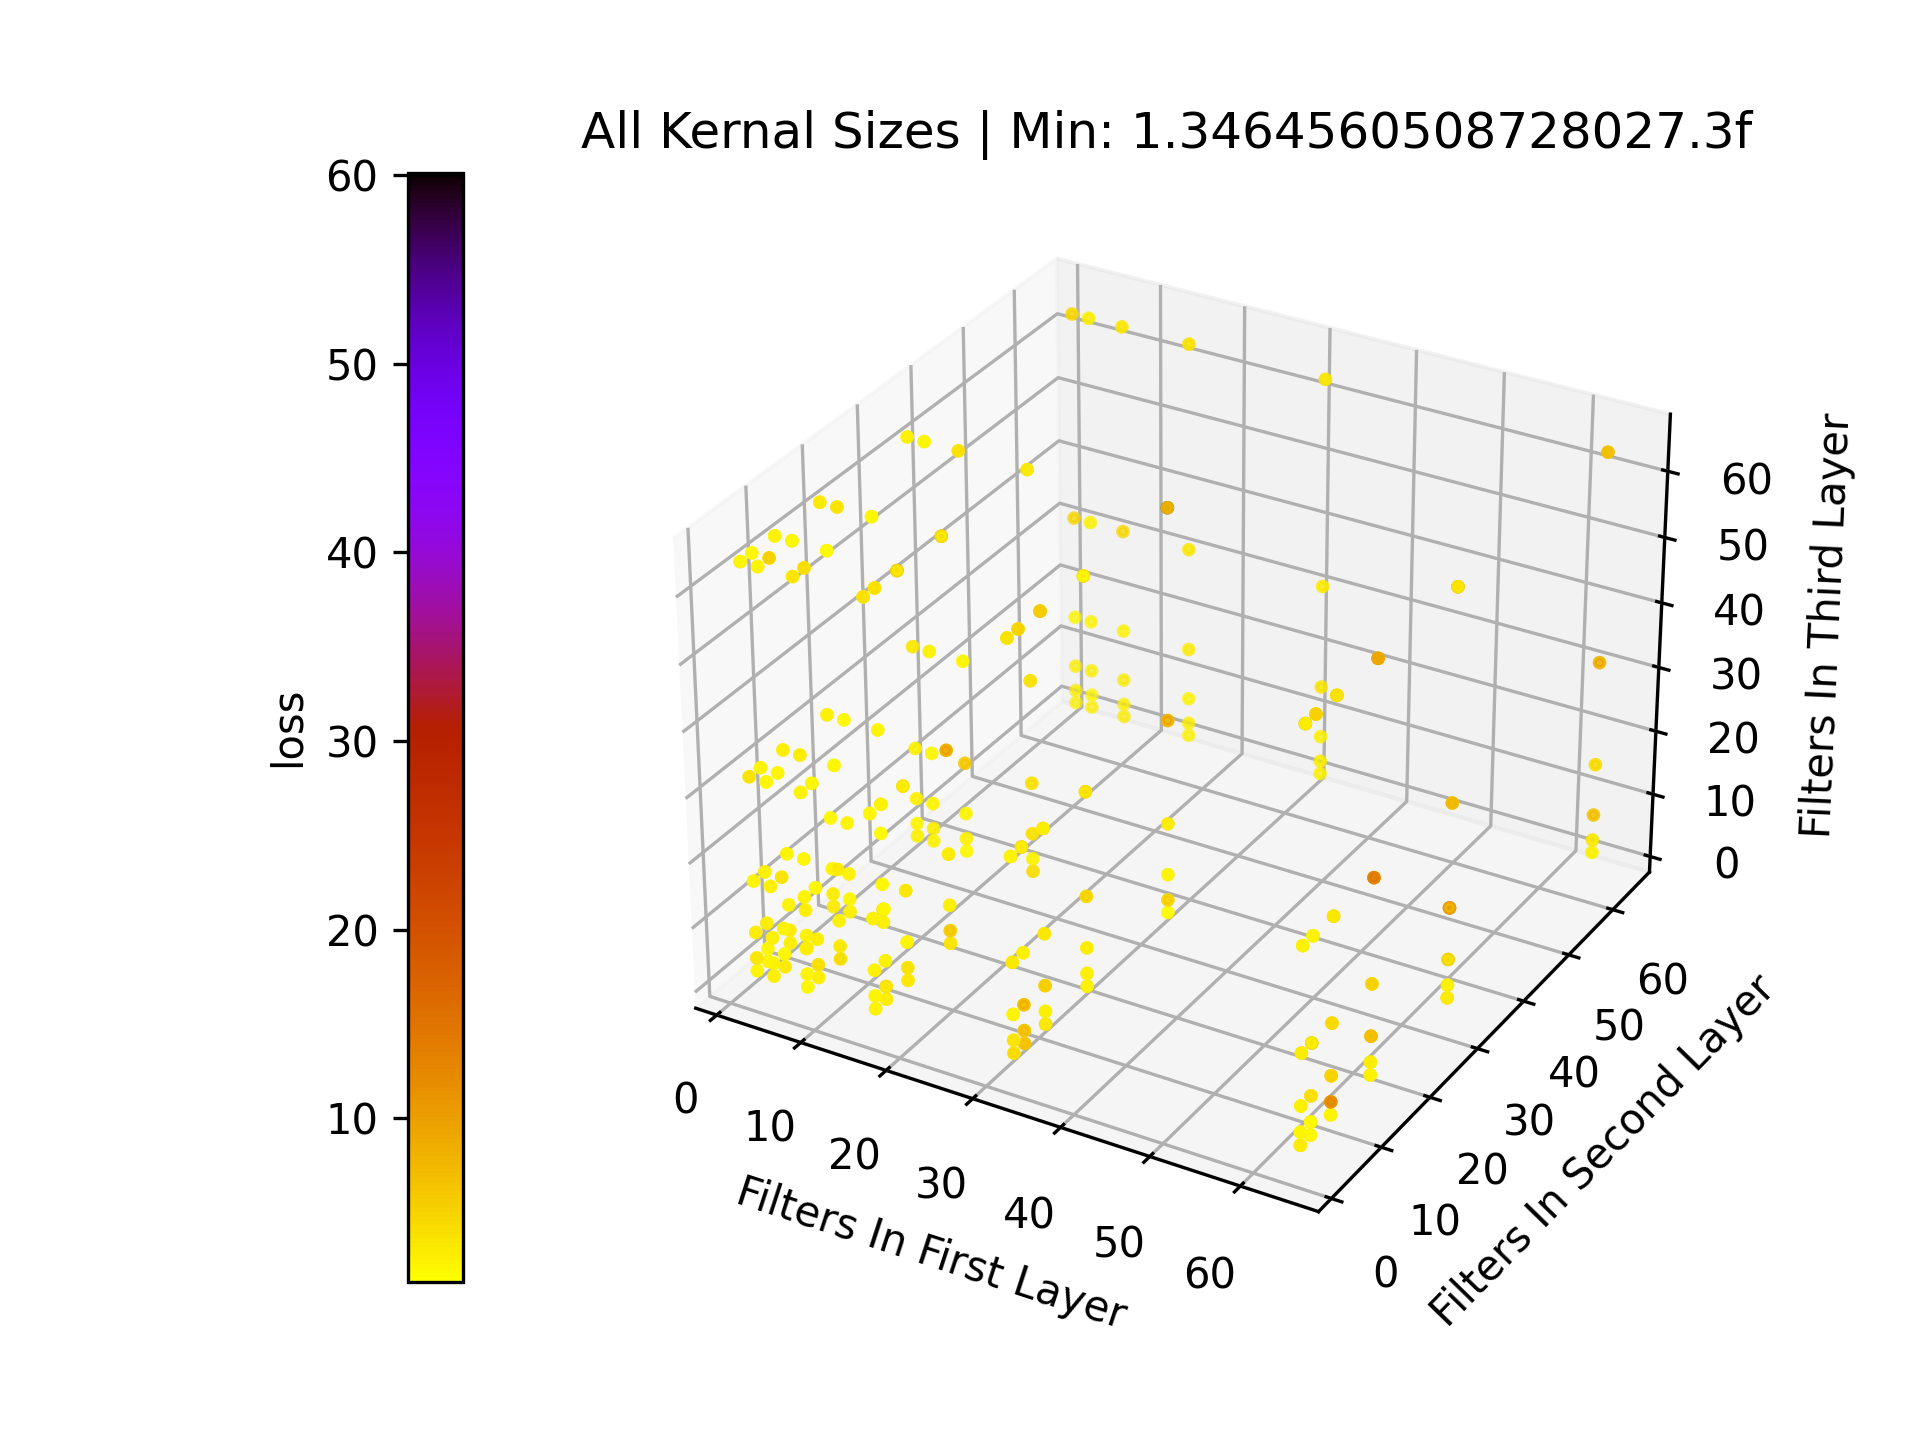
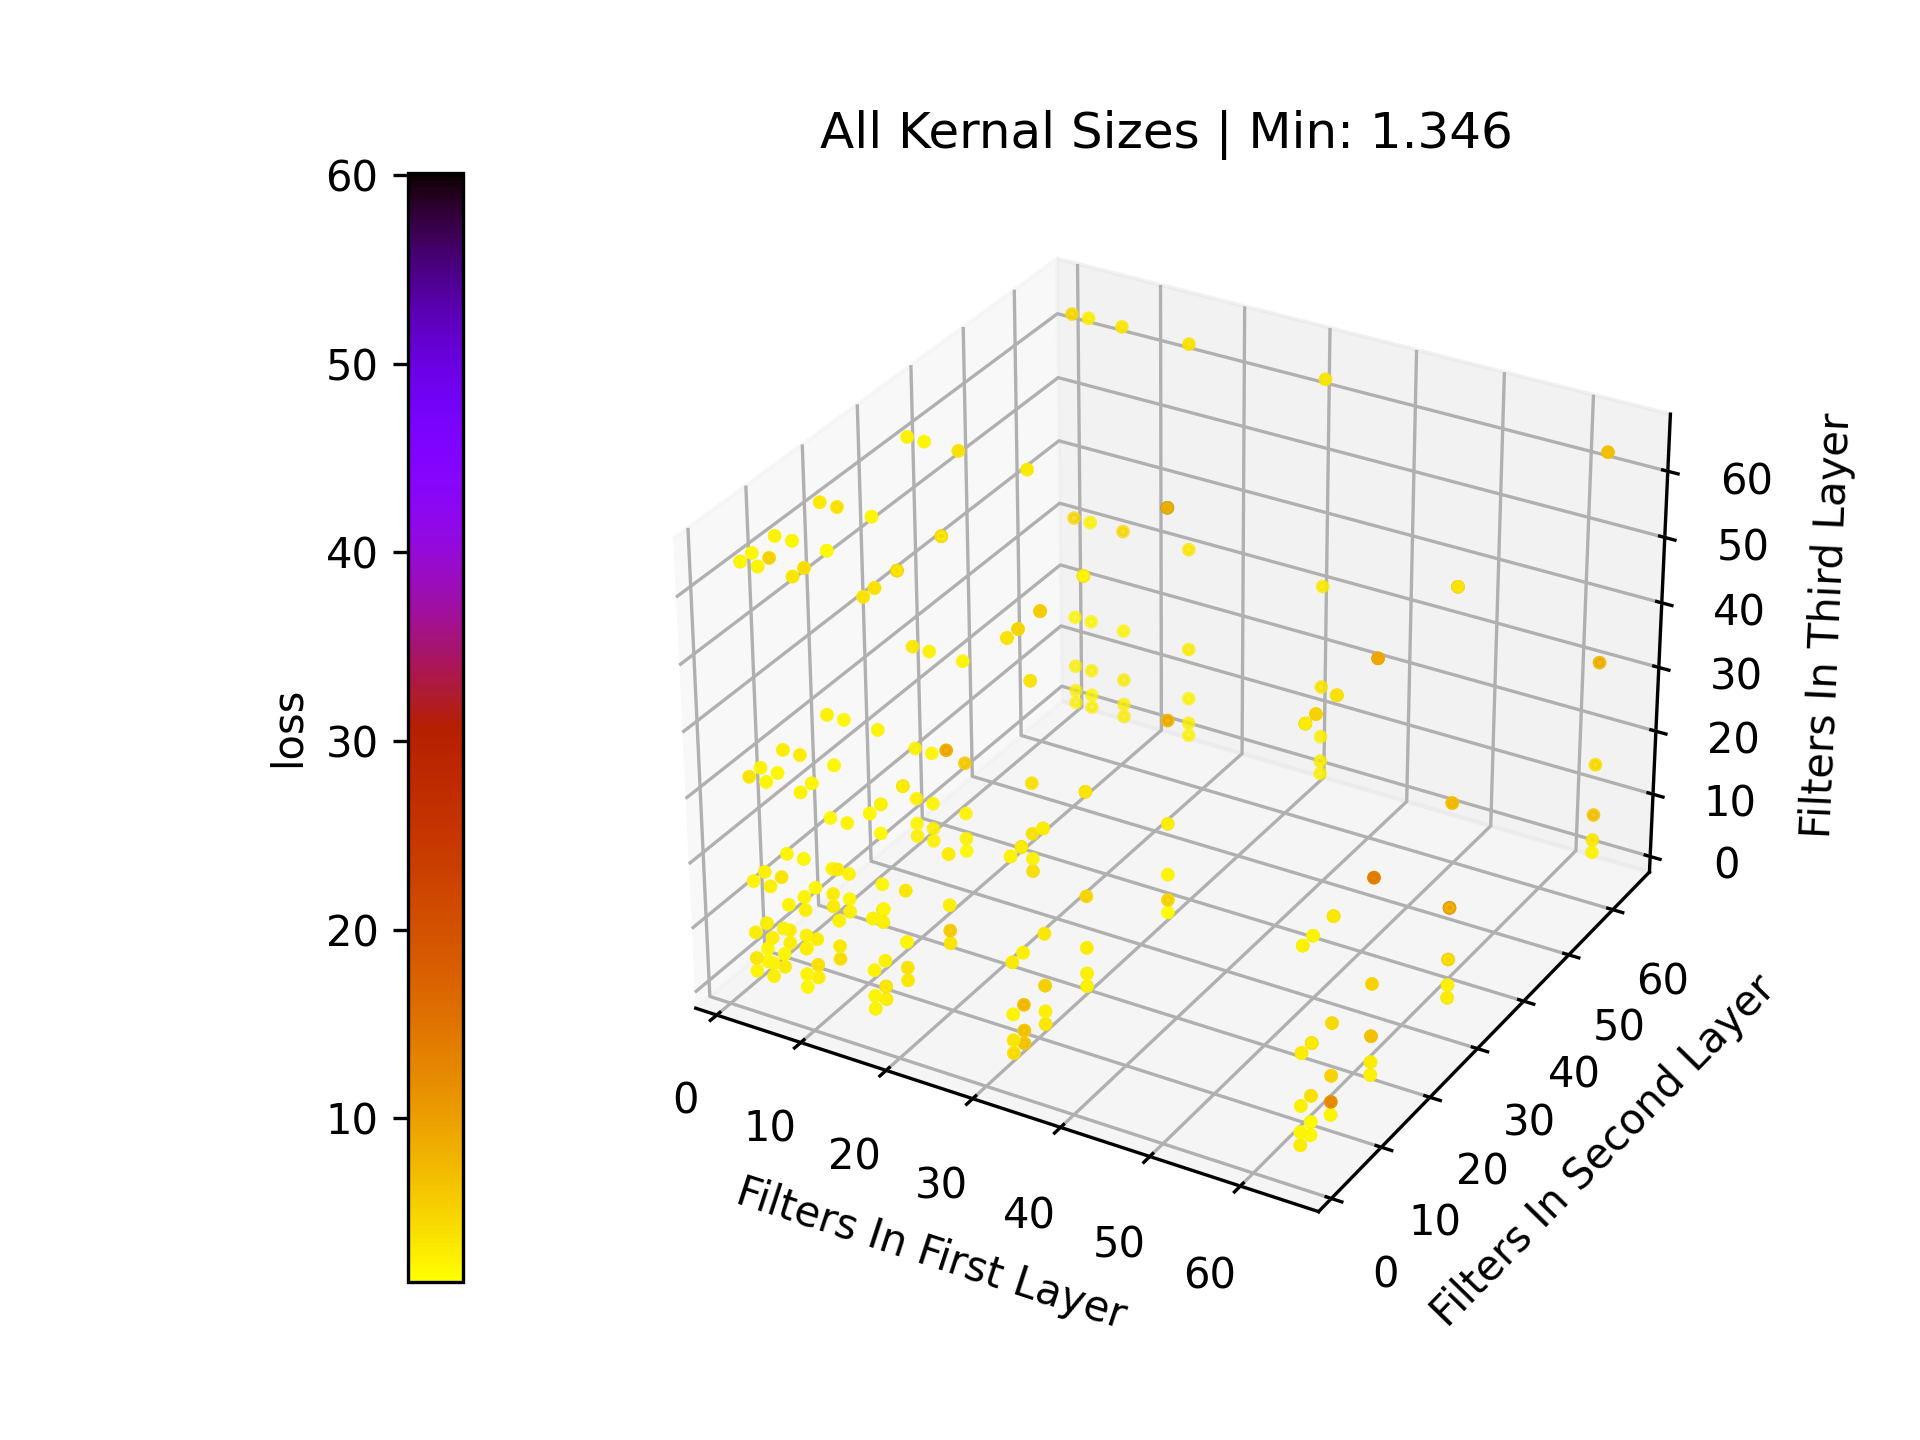
fix typo

Changed region(s): [[0.3125, 0.0625, 0.9062, 0.125]]

diff --git a/services/neural-network/experiment/plots.py b/services/neural-network/experiment/plots.py
@@ -96,7 +96,7 @@ if __name__ == "__main__":
         False,
     )
     plot_loss(
-        df, f"All Kernal Sizes | Min: {df['loss'].min()}.3f", "loss_all_kernal_sizes.png", False
+        df, f"All Kernal Sizes | Min: {df['loss'].min():.3f}", "loss_all_kernal_sizes.png", False
     )
 
     plot_accuracy(
